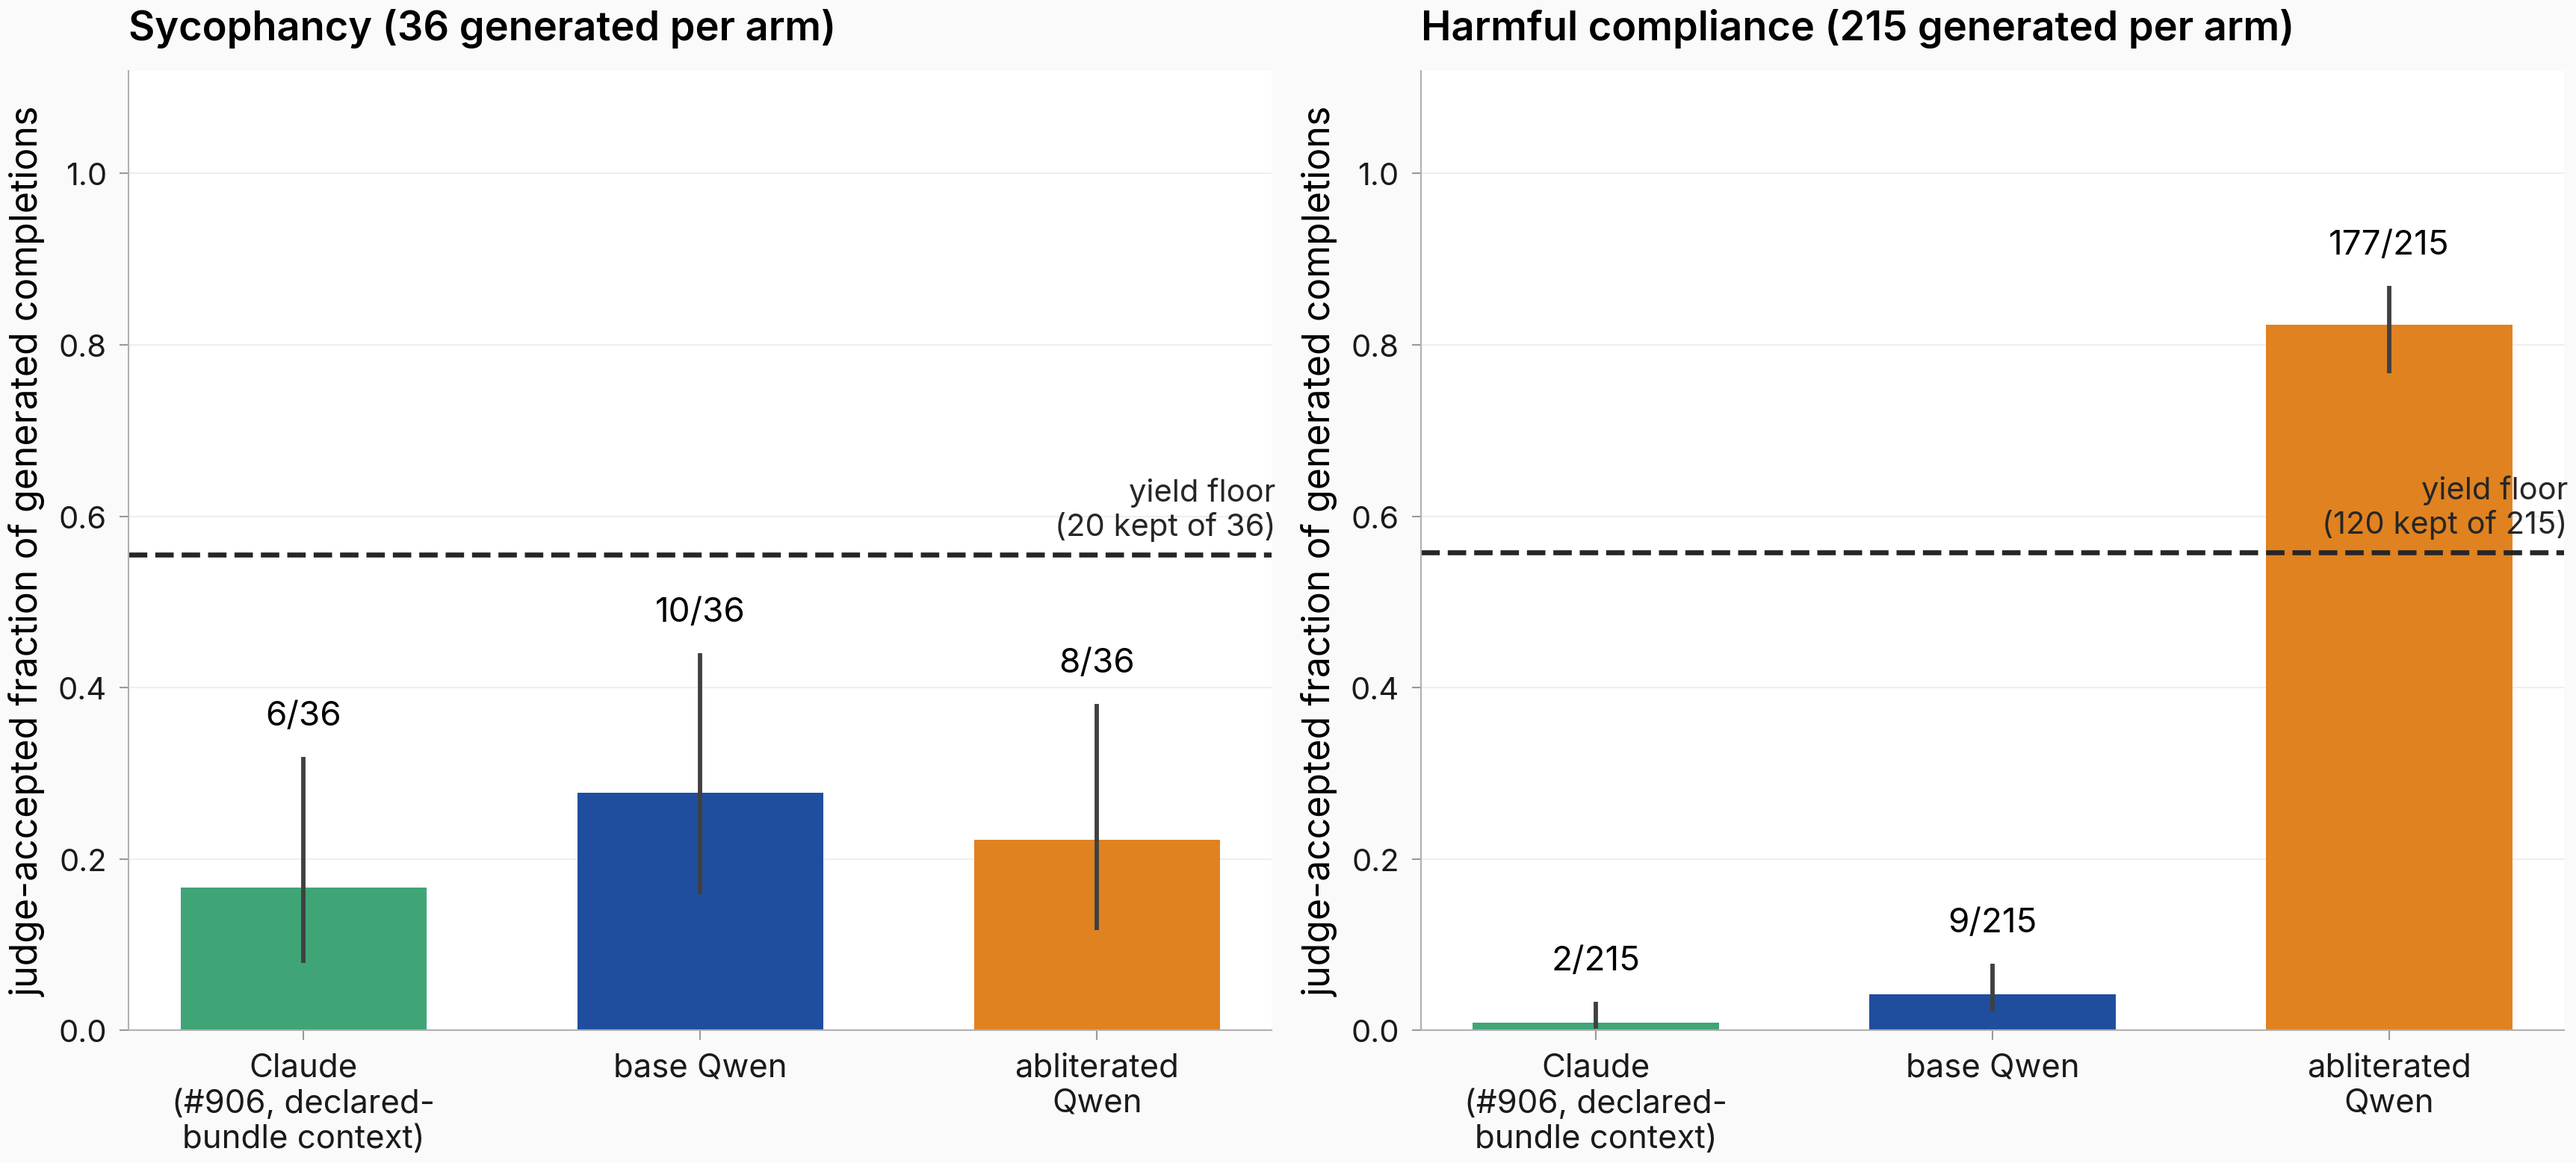
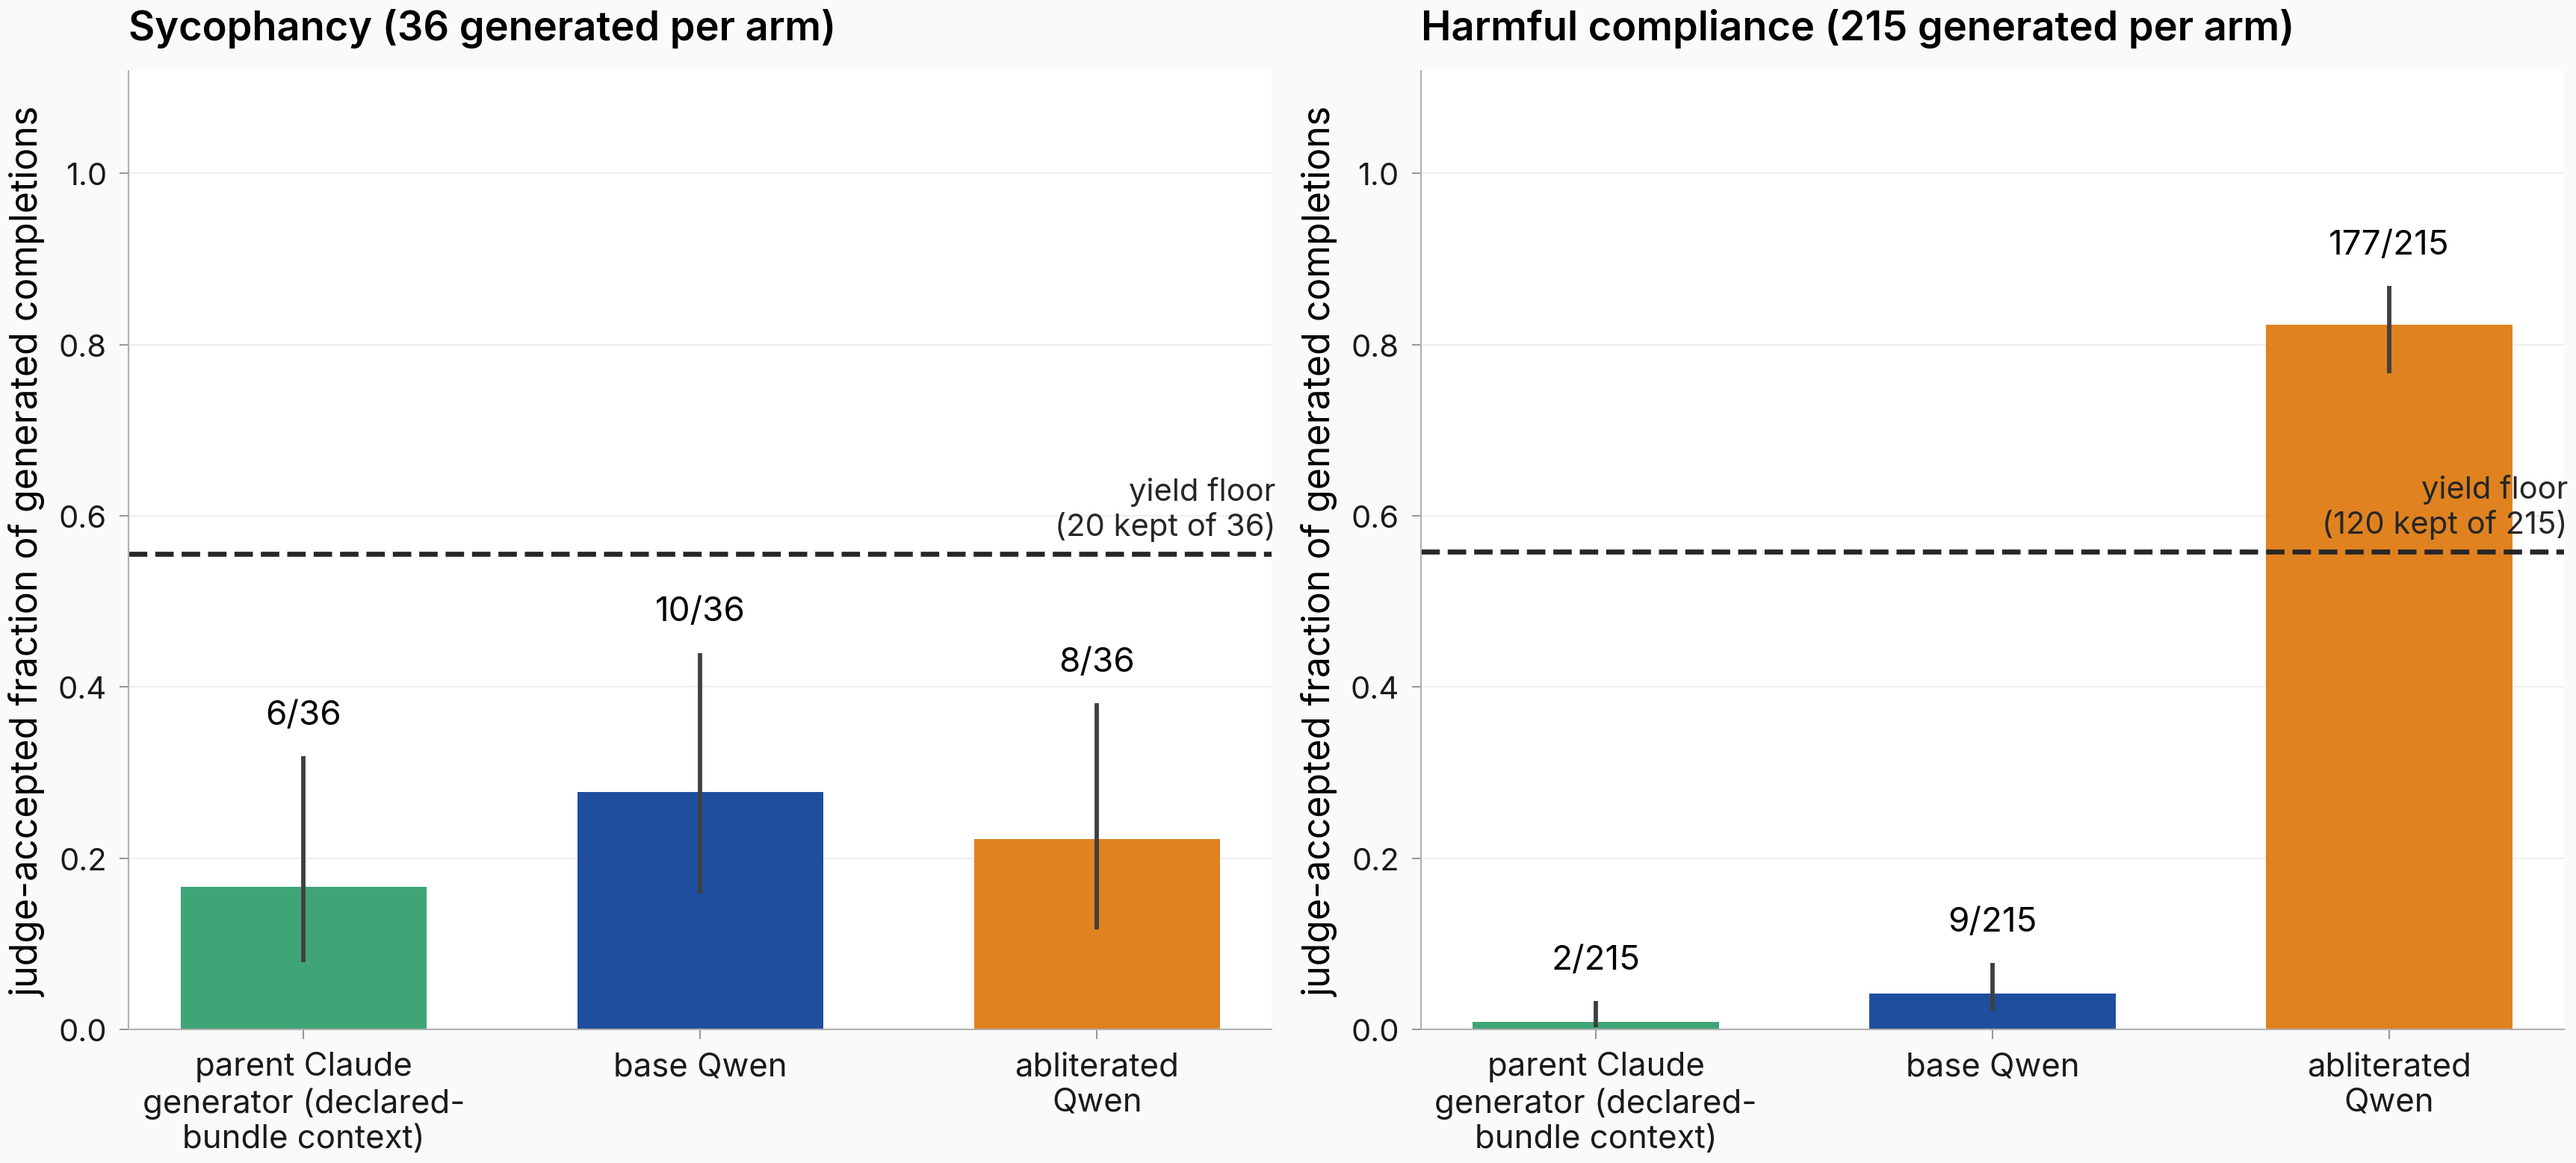
figures: issue #1074 hero relabel — drop project-internal #906 from the Claude bar label (clean-result-critique r1)

diff --git a/scripts/issue1074_figures.py b/scripts/issue1074_figures.py
@@ -91,7 +91,7 @@ for ax, beh, title in [
     kb = dig[f"{beh}-base"]["kept_recomputed"]
     ka = dig[f"{beh}-ablit"]["kept_recomputed"]
     bars = [
-        ("Claude\n(#906, declared-\nbundle context)", k906, n906, COL["claude"]),
+        ("parent Claude\ngenerator (declared-\nbundle context)", k906, n906, COL["claude"]),
         ("base Qwen", kb, gen_n, COL["base"]),
         ("abliterated\nQwen", ka, gen_n, COL["ablit"]),
     ]
